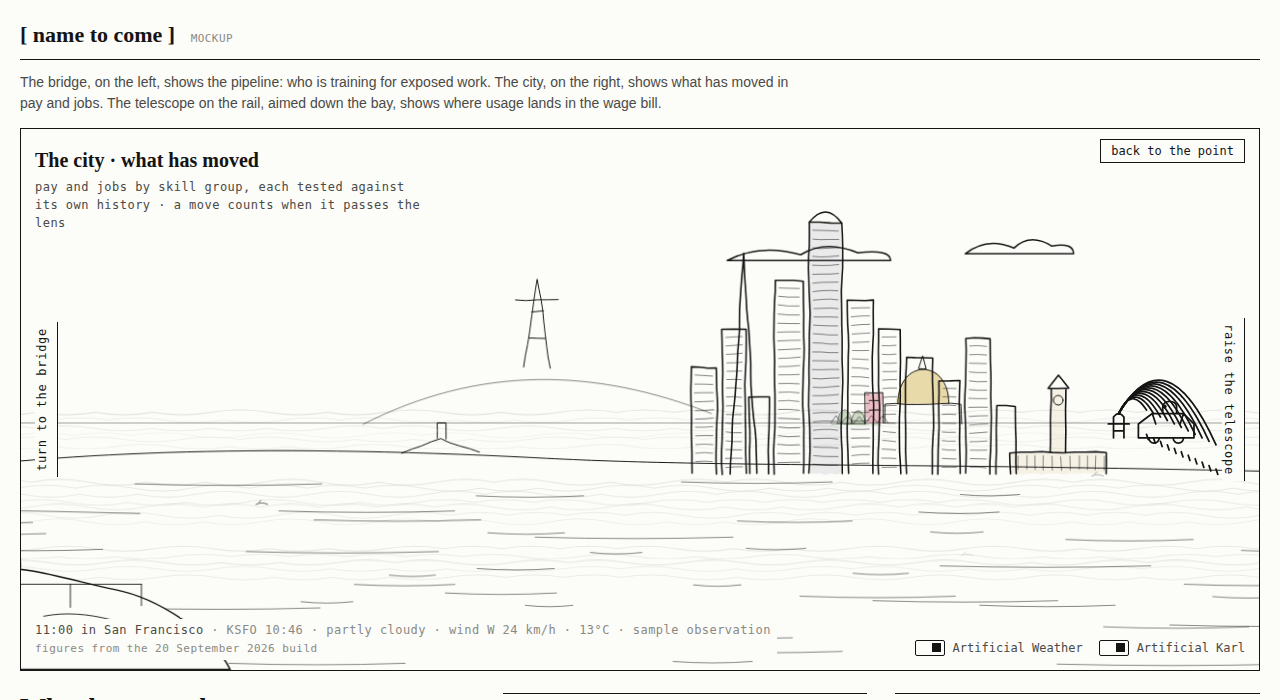
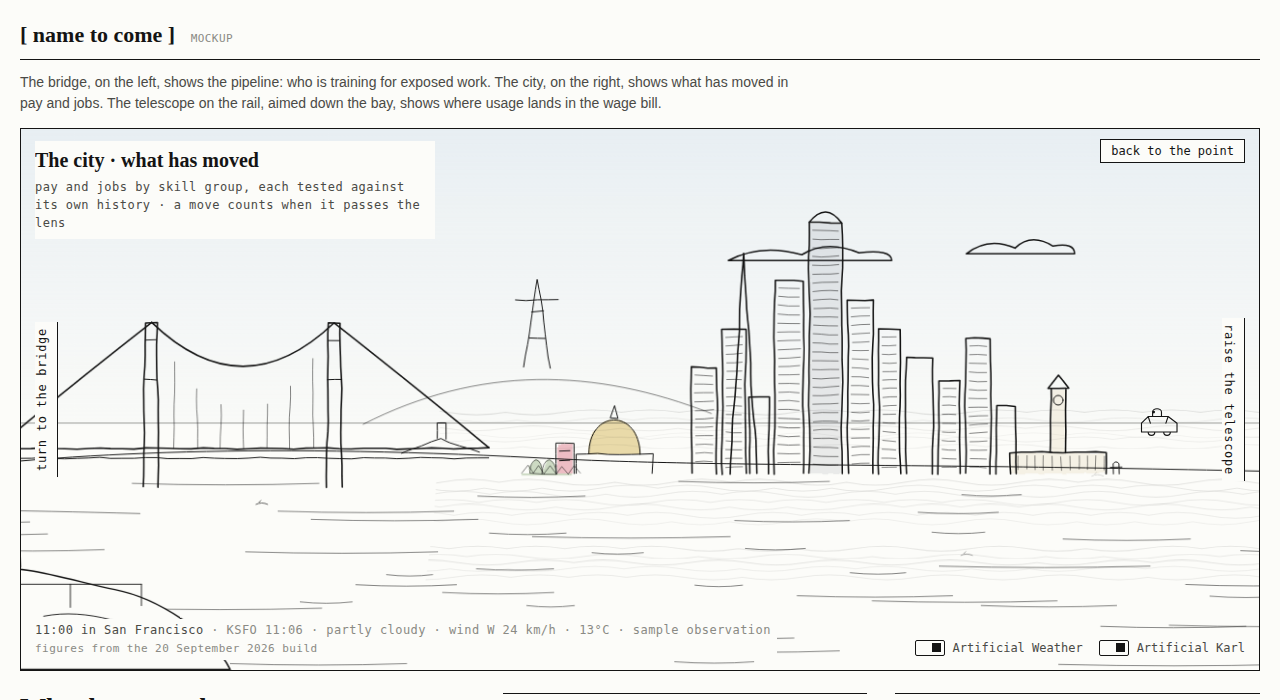
Front page: the sky takes its own colour through the day, the moon at its phase with the lit side right, the Gate back in the city with City Hall and Hayes Valley under Sutro, the hydrant on the shore, the beam sweeping on its own, calmer rain

diff --git a/docs/mockup/index.html b/docs/mockup/index.html
@@ -74,6 +74,7 @@ header.top{display:flex;align-items:baseline;justify-content:space-between;gap:1
 .rain{animation:fall var(--rfall,1.1s) linear infinite}
 @keyframes fall{from{transform:translateY(-40px)}to{transform:translateY(40px)}}
 .sunwash,.dawn{pointer-events:none}
+.skywash{mix-blend-mode:var(--blend,multiply)}
 .stage.stale .obs{color:var(--ink-3)}
 .beam{transform-origin:var(--bx) var(--by);transition:transform .8s cubic-bezier(.65,0,.25,1)}
 .stage:not([data-view="home"]) .fg .hot,.stage:not([data-view="home"]) .beam{display:none}
@@ -91,7 +92,8 @@ header.top{display:flex;align-items:baseline;justify-content:space-between;gap:1
 .hot .cap{text-decoration:underline dotted;text-decoration-color:var(--ink-3);text-underline-offset:6px}
 .hot:hover .cap,.hot:focus-visible .cap{text-decoration:underline solid;text-decoration-color:var(--ink)}
 .detail{opacity:0;transition:opacity .25s}
-.hot:hover .detail,.hot:focus-visible .detail{opacity:1}
+.hot:hover .detail,.hot:focus-visible .detail,.hot.lit .detail{opacity:1}
+.hot.lit .cap{text-decoration:underline solid;text-decoration-color:var(--ink)}
 .viewer{transition:transform 1s cubic-bezier(.5,0,.2,1)}
 .viewer.down{transform:translateY(420px)}
 .mask-in{transition:opacity .8s}
@@ -199,9 +201,11 @@ header.top{display:flex;align-items:baseline;justify-content:space-between;gap:1
           <feGaussianBlur in="d" stdDeviation="0.7"/>
         </filter>
         <filter id="glow" x="-100%" y="-100%" width="300%" height="300%"><feGaussianBlur stdDeviation="6"/></filter>
+        <linearGradient id="skygrad" x1="0" y1="0" x2="0" y2="1"><stop id="sky-top" offset="0" stop-color="#BFD3E6" stop-opacity="0"/><stop id="sky-low" offset="1" stop-color="#F2B48C" stop-opacity="0"/></linearGradient>
         <mask id="fogmask"><rect x="0" y="0" width="4800" height="700" fill="white"/><polygon id="cone" points="0,0" fill="black"/></mask>
         <mask id="binoc"><rect x="0" y="0" width="1600" height="700" fill="black"/><circle cx="700" cy="290" r="210" fill="white"/><circle cx="900" cy="290" r="210" fill="white"/></mask>
       </defs>
+      <rect class="skywash" x="0" y="0" width="4800" height="342" fill="url(#skygrad)"/>
       <g id="sky" class="scene sky thin"></g>
     </svg>
     <!-- ================= the panorama: bridge | point | city, painted once ================= -->
@@ -310,6 +314,7 @@ header.top{display:flex;align-items:baseline;justify-content:space-between;gap:1
   const el = (tag, attrs={}, parent) => { const n = document.createElementNS(NS, tag); for (const k in attrs) n.setAttribute(k, attrs[k]); if (parent) parent.appendChild(n); return n; };
   function rng(seed){ let s = seed; return () => (s = (s * 16807) % 2147483647) / 2147483647; }
   const W = 4800, HOME = 1600;            // panorama width; the point sits in the middle third
+  const CH = 780, HYD = 1300;             // in the city third: City Hall's x, and the hydrant's on the shore
 
   /* ---------- line work ---------- */
   function water(g, x0, x1, y0, y1, seed, dens){
@@ -405,8 +410,7 @@ header.top{display:flex;align-items:baseline;justify-content:space-between;gap:1
     tintRect(washes, ox+992, baseY-250, 16, 290, "var(--orange)");
     tint(washes, `M ${ox+620} ${baseY-250} Q ${ox+810} ${baseY-100} ${ox+1000} ${baseY-250} l 0 5 Q ${ox+810} ${baseY-95} ${ox+620} ${baseY-245} Z`, "var(--orange)");  // the cable
     el("path", {d:`M ${ox+1000} ${baseY-40} C ${ox+1150} ${baseY-90}, ${ox+1350} ${baseY-80}, ${ox+1600} ${baseY-30}`, class:"thin"}, g);
-    for (const [x,y,s] of [[ox+1180, baseY+90, 1],[ox+1300, baseY+170, 1.3],[ox+880, baseY+220, .8]]){ el("path", {d:`M${x} ${y} l ${-30*s} 0 l ${6*s} ${10*s} l ${48*s} 0 l ${6*s} ${-10*s} z M${x-14*s} ${y} l 0 ${-10*s} l ${22*s} 0 l 0 ${10*s} M${x-4*s} ${y-10*s} l 0 ${-9*s}`, class:"thin"}, g); }
-    for (const [x,y] of [[ox+300,150],[ox+340,170],[ox+1100,120]]) el("path", {d:`M${x-10} ${y} q 10 -8 20 0 M${x+10} ${y} q 10 -8 20 0`, class:"thin gull"}, g);
+    for (const [x,y,s] of [[ox+1180, baseY+90, 1],[ox+1000, baseY+160, 1.3],[ox+880, baseY+220, .8]]){ el("path", {d:`M${x} ${y} l ${-30*s} 0 l ${6*s} ${10*s} l ${48*s} 0 l ${6*s} ${-10*s} z M${x-14*s} ${y} l 0 ${-10*s} l ${22*s} 0 l 0 ${10*s} M${x-4*s} ${y-10*s} l 0 ${-9*s}`, class:"thin"}, g); }
   })(far, 0, 330);
 
   // middle third: the far city as seen from the point (x 1600..3200), faint
@@ -426,25 +430,30 @@ header.top{display:flex;align-items:baseline;justify-content:space-between;gap:1
     el("path", {d:`M ${ox+520} ${baseY-60} C ${ox+640} ${baseY-120}, ${ox+760} ${baseY-118}, ${ox+880} ${baseY-70}`, class:"hair"}, g);
     const sx = ox+700, sy = baseY-118;
     el("path", {d:`M${sx-14} ${sy} L ${sx} ${sy-92} L ${sx+14} ${sy} M${sx-9} ${sy-30} L ${sx+9} ${sy-30} M${sx-6} ${sy-58} L ${sx+6} ${sy-58} M${sx-22} ${sy-70} L ${sx+22} ${sy-70}`, class:"thin"}, g);
+    suspension(g, ox+300, ox+490, baseY-34, 130, 90);
     el("path", {d:`M ${ox+560} ${baseY-30} L ${ox+600} ${baseY-44} L ${ox+640} ${baseY-30} M ${ox+596} ${baseY-44} L ${ox+596} ${baseY-60} L ${ox+606} ${baseY-60} L ${ox+606} ${baseY-44}`, class:"thin"}, g);
     const towers = [[860,110,26,1],[892,150,24,1],[920,80,20,0],[946,200,30,1],[982,260,34,1],[1022,180,26,1],[1054,150,22,1],[1082,120,28,0],[1116,96,22,1],[1144,140,26,1],[1176,70,20,0]];
     for (const [x,h,w,win] of towers) box(g, ox+x, baseY-h-8, w, h, win);
     el("path", {d:`M ${ox+900} ${baseY-8} L ${ox+914} ${baseY-236} L ${ox+928} ${baseY-8}`}, g);
     el("path", {d:`M ${ox+982} ${baseY-268} Q ${ox+999} ${baseY-290} ${ox+1016} ${baseY-268}`}, g);
     // City Hall, and Hayes Valley just west of it: Patricia's Green with its trees, and the red house over the green
-    dome(g, ox+1100, baseY-60, 80, "thin");
-    for (let x=ox+1004; x<ox+1056; x+=12) el("path", {d:`M${x} ${baseY-60} L ${x+6} ${baseY-68} L ${x+12} ${baseY-60}`, class:"hair"}, g);
-    el("path", {d:`M ${ox+1040} ${baseY-60} L ${ox+1040} ${baseY-92} L ${ox+1058} ${baseY-92} L ${ox+1058} ${baseY-60} M ${ox+1044} ${baseY-84} L ${ox+1054} ${baseY-84} M ${ox+1044} ${baseY-74} L ${ox+1054} ${baseY-74}`, class:"thin"}, g);
-    for (const x of [ox+1012, ox+1026]) el("path", {d:`M${x} ${baseY-60} q 0 -12 7 -14 q 7 2 7 14 z`, class:"hair"}, g);
+    // City Hall and Hayes Valley sit west of the towers, under Sutro, on the shore's register: the dome, the green with its trees, and the red house over the green
+    const hv = ox+CH, gy = baseY-8;
+    dome(g, hv, gy, 80, "thin");
+    for (let x=hv-96; x<hv-44; x+=12) el("path", {d:`M${x} ${gy} L ${x+6} ${gy-8} L ${x+12} ${gy}`, class:"hair"}, g);
+    el("path", {d:`M ${hv-60} ${gy} L ${hv-60} ${gy-32} L ${hv-42} ${gy-32} L ${hv-42} ${gy} M ${hv-56} ${gy-24} L ${hv-46} ${gy-24} M ${hv-56} ${gy-14} L ${hv-46} ${gy-14}`, class:"thin"}, g);
+    for (const x of [hv-88, hv-74]) el("path", {d:`M${x} ${gy} q 0 -12 7 -14 q 7 2 7 14 z`, class:"hair"}, g);
+    // the hydrant on the Embarcadero, past the Ferry Building, where the robotaxi meets it
+    el("path", {d:`M ${ox+HYD-3} ${gy} L ${ox+HYD-3} ${gy-11} Q ${ox+HYD} ${gy-15} ${ox+HYD+3} ${gy-11} L ${ox+HYD+3} ${gy} M ${ox+HYD-6} ${gy-7} L ${ox+HYD+6} ${gy-7}`, class:"thin"}, g);
     // Ferry Building on the waterfront
     el("path", {d:`M ${ox+1190} ${baseY-8} L ${ox+1190} ${baseY-30} L ${ox+1290} ${baseY-30} L ${ox+1290} ${baseY-8}`}, g);
     for (let x=ox+1198; x<ox+1290; x+=9) el("path", {d:`M${x} ${baseY-26} L ${x} ${baseY-12}`, class:"hair"}, g);
     el("path", {d:`M ${ox+1232} ${baseY-30} L ${ox+1232} ${baseY-96} L ${ox+1248} ${baseY-96} L ${ox+1248} ${baseY-30} M ${ox+1229} ${baseY-96} L ${ox+1251} ${baseY-96} L ${ox+1240} ${baseY-110} Z`}, g);
     el("circle", {cx:ox+1240, cy:baseY-84, r:5, class:"thin"}, g);
     if (colour){
-      tint(washes, `M ${ox+1073} ${baseY-80} C ${ox+1073} ${baseY-128}, ${ox+1127} ${baseY-128}, ${ox+1127} ${baseY-80} Z`, "var(--gold)");   // the dome
-      tintRect(washes, ox+1041, baseY-91, 16, 31, "var(--rose)");                                                                 // the house over the green
-      tint(washes, `M ${ox+1004} ${baseY-60} h 52 v 2 h -52 Z M ${ox+1012} ${baseY-60} q 0 -12 7 -14 q 7 2 7 14 Z M ${ox+1026} ${baseY-60} q 0 -12 7 -14 q 7 2 7 14 Z`, "var(--green)"); // the green and its trees
+      tint(washes, `M ${hv-27} ${gy-20} C ${hv-27} ${gy-68}, ${hv+27} ${gy-68}, ${hv+27} ${gy-20} Z`, "var(--gold)");   // the dome
+      tintRect(washes, hv-59, gy-31, 16, 31, "var(--rose)");                                                        // the house over the green
+      tint(washes, `M ${hv-96} ${gy} h 52 v 2 h -52 Z M ${hv-88} ${gy} q 0 -12 7 -14 q 7 2 7 14 Z M ${hv-74} ${gy} q 0 -12 7 -14 q 7 2 7 14 Z`, "var(--green)"); // the green and its trees
       tintRect(washes, ox+1191, baseY-29, 98, 21, "var(--cream)");                                                                // the Ferry Building
       tintRect(washes, ox+1233, baseY-95, 14, 66, "var(--cream)");
       tintRect(washes, ox+983, baseY-267, 32, 259, "var(--glass)").style.opacity = ".12";                                          // the tallest tower
@@ -481,15 +490,18 @@ header.top{display:flex;align-items:baseline;justify-content:space-between;gap:1
     LIGHTS.innerHTML = "";
     const ox = HOME*2, baseY = 400, [ca, cb] = nightPair(d);
     // the dome, split by the pair
-    tint(LIGHTS, `M ${ox+1073} ${baseY-80} C ${ox+1073} ${baseY-128}, ${ox+1100} ${baseY-128}, ${ox+1100} ${baseY-120} L ${ox+1100} ${baseY-80} Z`, ca).classList.add("nightlight");
-    tint(LIGHTS, `M ${ox+1100} ${baseY-80} L ${ox+1100} ${baseY-120} C ${ox+1100} ${baseY-128}, ${ox+1127} ${baseY-128}, ${ox+1127} ${baseY-80} Z`, cb).classList.add("nightlight");
+    const hv = ox+CH, gy = baseY-8;
+    tint(LIGHTS, `M ${hv-27} ${gy-20} C ${hv-27} ${gy-68}, ${hv} ${gy-68}, ${hv} ${gy-60} L ${hv} ${gy-20} Z`, ca).classList.add("nightlight");
+    tint(LIGHTS, `M ${hv} ${gy-20} L ${hv} ${gy-60} C ${hv} ${gy-68}, ${hv+27} ${gy-68}, ${hv+27} ${gy-20} Z`, cb).classList.add("nightlight");
     // the crown: a soft wash and a grid of blocks that breathe out of step
     tintRect(LIGHTS, ox+983, baseY-290, 32, 30, "#9FB7C9").classList.add("nightlight");
     const grid = el("g", {class:"nightlight"}, LIGHTS); const r = rng(59);
     for (let i=0;i<4;i++) for (let j=0;j<5;j++){ const b = el("rect", {x:ox+986+i*7, y:baseY-286+j*6, width:5, height:4, class:"crownblock", style:`fill:#9FB7C9;stroke:none`}, grid); b.style.animationDelay = (-r()*9).toFixed(1) + "s"; }
     // the same lights, small, in the far city seen from the point
-    blob(LIGHTS, HOME+1020+1100*.55-14, 300+(baseY-136-250)*.55, 20, 22, ca, 61).classList.add("nightlight");
-    blob(LIGHTS, HOME+1020+982*.55-2, 300+(baseY-292-250)*.55, 26, 18, "#9FB7C9", 63).classList.add("nightlight");
+    const fx = HOME+1020+CH*.55, fb = 300+(250-8-20)*.55, ft = 300+(250-8-68)*.55;                    // the far dome, drawn at .55 on a base of 250
+    tint(LIGHTS, `M ${fx-15} ${fb} C ${fx-15} ${ft}, ${fx} ${ft}, ${fx} ${ft+4} L ${fx} ${fb} Z`, ca).classList.add("nightlight");
+    tint(LIGHTS, `M ${fx} ${fb} L ${fx} ${ft+4} C ${fx} ${ft}, ${fx+15} ${ft}, ${fx+15} ${fb} Z`, cb).classList.add("nightlight");
+    tintRect(LIGHTS, HOME+1020+983*.55, 300+(250-290)*.55, 18, 16, "#9FB7C9").classList.add("nightlight");   // the far crown
   }
   drawLights(new Date());
 
@@ -549,10 +561,15 @@ header.top{display:flex;align-items:baseline;justify-content:space-between;gap:1
     cone.setAttribute("points", p.map(q=>q.join(",")).join(" "));
   }
   function aim(t){ beam.style.transform = `rotate(${angle[t]||0}deg)`; setCone(t); }
+  function light(t){ document.querySelectorAll(".hot").forEach(h=>h.classList.toggle("lit", h.id === "hot-"+t)); }
+  // left alone on the point, the beam turns to each view in its own time and holds it lit
+  const SWEEP = ["city", "tele", "bridge"]; let sweepTimer = null, sweepAt = 0;
+  function hold(){ clearInterval(sweepTimer); sweepTimer = null; }
+  function sweep(){ hold(); if (stage.dataset.view !== "home") return; const step = ()=>{ const t = SWEEP[sweepAt++ % SWEEP.length]; aim(t); light(t); }; step(); sweepTimer = setInterval(step, 8000); }
   for (const [id, t] of [["hot-city","city"],["hot-bridge","bridge"],["hot-tele","tele"]]){
     const h = $("#"+id);
-    h.addEventListener("mouseenter", ()=>aim(t)); h.addEventListener("focus", ()=>aim(t));
-    h.addEventListener("mouseleave", ()=>aim("home")); h.addEventListener("blur", ()=>aim("home"));
+    h.addEventListener("mouseenter", ()=>{ hold(); aim(t); light(t); }); h.addEventListener("focus", ()=>{ hold(); aim(t); light(t); });
+    h.addEventListener("mouseleave", ()=>sweep()); h.addEventListener("blur", ()=>sweep());
     h.addEventListener("click", ()=>go(t==="tele"?"valley":t));
     h.addEventListener("keydown", e=>{ if(e.key==="Enter"||e.key===" "){ e.preventDefault(); go(t==="tele"?"valley":t);} });
   }
@@ -615,6 +632,7 @@ header.top{display:flex;align-items:baseline;justify-content:space-between;gap:1
     clearTimeout(timer);
     stage.dataset.view = view;
     $("#life").replaceChildren();                                              // whatever was crossing the last view stays there
+    hold(); light(null);
     if (view === "valley") $("#life").setAttribute("mask", "url(#binoc)"); else $("#life").removeAttribute("mask");
     const r = R[view];
     // the surfaces slide and lean in together; a percent of the surface width is a panorama unit over 1600
@@ -641,7 +659,7 @@ header.top{display:flex;align-items:baseline;justify-content:space-between;gap:1
     } else {
       vv.classList.add("off"); big.classList.add("down");
       timer = setTimeout(()=>{ valley.classList.add("off"); fg.classList.remove("off"); }, 600);
-      if (view==="home") aim("home");
+      if (view==="home") sweep(); else { hold(); light(null); }
     }
   }
   home.addEventListener("click", ()=>go("home"));
@@ -682,12 +700,12 @@ header.top{display:flex;align-items:baseline;justify-content:space-between;gap:1
   const PRESETS = {
     clear:       { fog:.08, clouds:0, band:false, streak:false, rain:0 },
     "light cloud":{fog:.15, clouds:3, band:false, streak:false, rain:0 },
-    overcast:    { fog:.25, clouds:7, band:true,  streak:false, rain:0 },
+    overcast:    { fog:.25, clouds:5, band:true,  streak:false, rain:0 },
     fog:         { fog:.6,  clouds:1, band:false, streak:false, rain:0 },
     "thick fog": { fog:.95, clouds:0, band:false, streak:false, rain:0 },
-    rain:        { fog:.3,  clouds:7, band:true,  streak:false, rain:1 },
+    rain:        { fog:.3,  clouds:5, band:true,  streak:false, rain:1 },
     wind:        { fog:.2,  clouds:4, band:false, streak:true,  rain:0 },
-    storm:       { fog:.35, clouds:8, band:true,  streak:true,  rain:2 },
+    storm:       { fog:.35, clouds:6, band:true,  streak:true,  rain:2 },
   };
   function presetFor(o){
     const t = (o.text || "").toLowerCase();
@@ -751,6 +769,18 @@ header.top{display:flex;align-items:baseline;justify-content:space-between;gap:1
   const HEADING = { home:90, city:45, bridge:180, valley:150 };
 
   const sky = $("#sky");
+  // The sky's own colour: the faintest wash, blue by day, warm at the horizon around dawn and dusk, a deep
+  // blue at night. Each is a pair of stops keyed to the sun's altitude and blended between the keys.
+  const SKYKEYS = [[-18, ["#1B2238", .55, "#1B2238", .25]], [-7, ["#5D5F86", .45, "#E9A27A", .35]], [-1, ["#B4B0CF", .4, "#F2B48C", .55]],
+                   [6, ["#BFD3E6", .35, "#F4C9A6", .3]], [16, ["#BFD3E6", .38, "#DCE7EF", .08]]];
+  function hexLerp(a, b, t){ const A = a.match(/\w\w/g).map(h=>parseInt(h,16)), B = b.match(/\w\w/g).map(h=>parseInt(h,16)); return "#" + A.map((v,i)=>Math.round(v + (B[i]-v)*t).toString(16).padStart(2,"0")).join(""); }
+  function skyColour(sun){
+    const a = Math.max(SKYKEYS[0][0], Math.min(SKYKEYS[SKYKEYS.length-1][0], sun.alt)); let i = 0; while (i < SKYKEYS.length-2 && a > SKYKEYS[i+1][0]) i++;
+    const [a0, k0] = SKYKEYS[i], [a1, k1] = SKYKEYS[i+1], t = (a - a0)/(a1 - a0);
+    const top = $("#sky-top"), low = $("#sky-low");
+    top.setAttribute("stop-color", hexLerp(k0[0], k1[0], t)); top.setAttribute("stop-opacity", (k0[1] + (k1[1]-k0[1])*t).toFixed(3));
+    low.setAttribute("stop-color", hexLerp(k0[2], k1[2], t)); low.setAttribute("stop-opacity", (k0[3] + (k1[3]-k0[3])*t).toFixed(3));
+  }
   let current = { preset:"fog", rainLevel:0 };
   function drawSky(o, view){
     const [key, rainLevel] = presetFor(o); const w = PRESETS[key]; current = { preset:key, rainLevel };
@@ -767,8 +797,8 @@ header.top{display:flex;align-items:baseline;justify-content:space-between;gap:1
     for (let i=0;i<w.clouds*3;i++){ const x = r()*W, y = 150 + r()*60, wd = 80 + r()*140;
       const d = w.streak ? `M${x} ${y} q ${wd*.5} -6 ${wd} 0 M${x+20} ${y+8} q ${wd*.3} -4 ${wd*.6} 0` : `M${x} ${y} q ${wd*.2} -18 ${wd*.45} -6 q ${wd*.15} -16 ${wd*.35} -2 q ${wd*.2} -4 ${wd*.2} 8 Z`;
       const c = el("path", {d, class:"cloud"}, sky); c.style.animationDelay = (-r()*240).toFixed(0) + "s"; }
-    if (w.band) for (let y=70; y<130; y+=12) el("path", {d:`M 0 ${y} L ${W} ${y}`, class:"hair"}, sky);
-    const rainN = [0, 500, 1400][Math.max(w.rain, rainLevel)];
+    if (w.band) for (let y=96; y<140; y+=18) el("path", {d:`M 0 ${y} L ${W} ${y}`, class:"hair"}, sky);
+    const rainN = [0, 220, 560][Math.max(w.rain, rainLevel)];
     if (rainN){ const slant = -lateral * 0.35; const g = el("g", {class:"rain"}, sky);
       for (let i=0;i<rainN;i++){ const x = r()*W, y = 130 + r()*420; el("path", {d:`M${x} ${y} l ${slant} 9`, class:"hair"}, g); } }
     document.querySelectorAll(".gull").forEach(p=>{ p.style.transform = `rotate(${lateral > 20 ? 14 : lateral < -20 ? -14 : 0}deg)`; p.style.transformOrigin = "center"; });
@@ -776,6 +806,7 @@ header.top{display:flex;align-items:baseline;justify-content:space-between;gap:1
     const now = sfNow(), sun = sunPosition(now), phase = moonPhase(now), moon = sunPosition(now, phase*360, Math.cos(phase*2*Math.PI));
     document.querySelectorAll(".sunwash,.dawn,.sun,.moon").forEach(n=>n.remove());
     const night = sun.alt < -6, dusk = !night && sun.alt < 4;
+    skyColour(sun);
     document.documentElement.dataset.theme = night ? "dark" : "light";
     stage.classList.toggle("night", night); stage.classList.toggle("dusk", dusk);
     drawLights(now);
@@ -788,12 +819,15 @@ header.top{display:flex;align-items:baseline;justify-content:space-between;gap:1
       const x = xOfAzimuth(sun.az); const morning = sun.az < 180;
       tint($("#washes"), `M ${x-700} 306 Q ${x} 296 ${x+700} 306 L ${x+700} 340 L ${x-700} 340 Z`, morning ? "#F2B48C" : "#E07A3F").classList.add("dawn");
     }
-    if (moon.alt > 0 && (night || sun.alt < 4) && w.fog < .9 && !w.band){
-      const x = xOfAzimuth(moon.az), y = yOfAltitude(moon.alt), g = el("g", {class:"moon thin"}, sky);
-      el("circle", {cx:x, cy:y, r:16}, g);
-      // the lit side: a lens between the limb and the terminator, phase 0 new, .5 full
+    // the moon is drawn at its phase and where it is; on a night it has set, the drawing keeps it low over the horizon anyway
+    if ((moon.alt > 0 || night) && (night || sun.alt < 4) && w.fog < .9 && !w.band){
+      const x = xOfAzimuth(moon.alt > 0 ? moon.az : (moon.az + 180) % 360), y = yOfAltitude(Math.max(moon.alt, night ? 16 : 0)), g = el("g", {class:"moon thin"}, sky);
+      // the lit side: a lens between the limb and the terminator, phase 0 new, .5 full. After dark the lit
+      // side is drawn in ink, which is white then; by day the disc is shaded and the lit side is left paper.
       const k = Math.cos(phase*2*Math.PI), sweep = phase < .5 ? 1 : 0;
-      el("path", {d:`M ${x} ${y-16} A 16 16 0 0 ${sweep} ${x} ${y+16} A ${Math.abs(k)*16} 16 0 0 ${(k>0) ? sweep : 1-sweep} ${x} ${y-16} Z`, style:"fill:var(--ink);stroke:none;opacity:.85"}, g);
+      const lens = `M ${x} ${y-16} A 16 16 0 0 ${sweep} ${x} ${y+16} A ${Math.abs(k)*16} 16 0 0 ${(k>0) ? 1-sweep : sweep} ${x} ${y-16} Z`;   // the limb on the lit side, then the terminator, bulging away from it past the quarter
+      if (night){ el("circle", {cx:x, cy:y, r:16}, g); el("path", {d:lens, style:"fill:var(--ink);stroke:none;opacity:.85"}, g); }
+      else { el("circle", {cx:x, cy:y, r:16, style:"fill:var(--ink);opacity:.14"}, g); el("path", {d:lens, style:"fill:var(--paper);stroke:none"}, g); el("circle", {cx:x, cy:y, r:16, class:"hair"}, g); }
     }
     const age = (Date.now() - o.time.getTime())/60000;
     stage.classList.toggle("stale", age > 90);
@@ -850,19 +884,16 @@ header.top{display:flex;align-items:baseline;justify-content:space-between;gap:1
           splash.style.opacity = 1 - (k-.82)/.18; }
       }, ()=>{ g.remove(); if (splash) splash.remove(); }); },
     robotaxi(){ if (stage.dataset.view !== "city") return EVENTS.gull();
-      const z = R.city.z, vx = x => 800 + z*(x-800), vy = y => 380 + z*(y-380);   // the city leans in, so the shore does too
+      const z = R.city.z, vx = x => 800 + z*(x-800), vy = y => 175 + z*(y-175);   // the city leans in about a point a quarter down, so the shore does too
       // it comes in from the right along the Embarcadero, past the Ferry Building, and meets the hydrant there
-      const g = el("g", {class:"thin"}, life); const y = vy(396); const S = 1.8*z; const hx = vx(1296), x0 = 1700;
+      const g = el("g", {class:"thin"}, life); const y = vy(390); const S = 1.15*z; const hx = vx(HYD), x0 = 1700;
       // a small car with its sensor dome, running the waterfront toward the hydrant by the Ferry Building
       const car = el("g", {transform:`scale(${S})`}, g);
       el("path", {d:"M-16 0 L 16 0 L 16 -8 L 10 -14 L -8 -14 L -16 -8 Z M-10 0 a 3 3 0 1 0 6 0 M4 0 a 3 3 0 1 0 6 0 M-2 -14 L -2 -18 a 4 3 0 1 1 8 0 L 6 -14 M-8 -14 L -6 -8 M 10 -14 L 8 -8", class:"thin"}, car);
       const dome = el("circle", {cx:2, cy:-18, r:1.2, class:"solid"}, car); let d = 0; const spin = setInterval(()=>{ dome.setAttribute("cx", 2 + Math.cos(d+=.6)*3); }, 80);
-      const hyd = el("g", {transform:`translate(${hx},${y}) scale(${S})`}, life); el("path", {d:"M-3 0 L -3 -12 Q 0 -16 3 -12 L 3 0 M-6 -8 L 6 -8 M-3 -4 L 3 -4", class:"thin"}, hyd);
-      const spout = el("g", {class:"thin"}, hyd); spout.style.opacity = 0;
-      for (let i=0;i<11;i++) el("path", {d:`M0 -14 q ${7 + i*2} ${-16 - i*3} ${16 + i*4} ${-2 + i*2} M${16 + i*4} ${-2 + i*2} l 1 3`}, spout);
-      const stop = hx + 26*S;
-      tween(3200, k=>{ const x = x0 + Math.min(k*1.12, 1)*(stop-x0); const bump = k > .89 ? Math.sin((k-.89)*70)*3 : 0; g.setAttribute("transform", `translate(${x+bump},${y})`); if (k > .89) spout.style.opacity = Math.min(1, (k-.89)*12); },
-        ()=>{ tween(2600, k=>{ spout.style.opacity = 1; }, ()=>{ tween(2400, k=>{ g.setAttribute("transform", `translate(${stop + k*120},${y})`); spout.style.opacity = 1 - k; }, ()=>{ clearInterval(spin); g.remove(); hyd.remove(); }); }); }); },
+      const stop = hx + 20*S;
+      tween(3400, k=>{ const x = x0 + Math.min(k*1.12, 1)*(stop-x0); const bump = k > .89 ? Math.sin((k-.89)*70)*2.5 : 0; g.setAttribute("transform", `translate(${x+bump},${y})`); },
+        ()=>{ tween(900, k=>{ car.setAttribute("transform", `scale(${S*(1 - 2*k)}, ${S})`); }, ()=>{ tween(2600, k=>{ g.setAttribute("transform", `translate(${stop + k*k*260},${y})`); }, ()=>{ clearInterval(spin); g.remove(); }); }); }); },
     gust(){ stage.classList.add("gust"); document.querySelectorAll(".gull").forEach(p=>{ p.style.transition = "transform .8s"; p.style.transform = "rotate(-22deg)"; });
       setTimeout(()=>{ stage.classList.remove("gust"); drawSky(OBS, stage.dataset.view); }, 5000); },
     ferry(){ if (stage.dataset.view !== "bridge") return EVENTS.gull();
